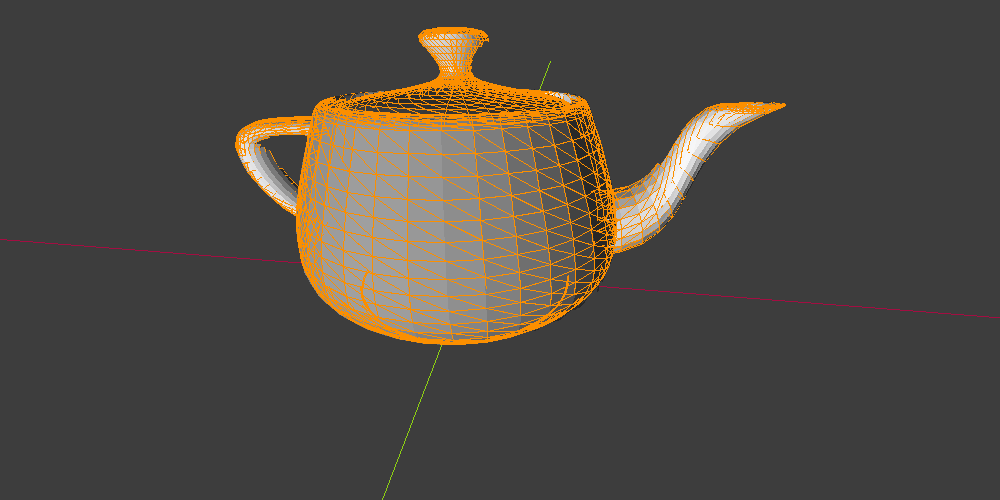
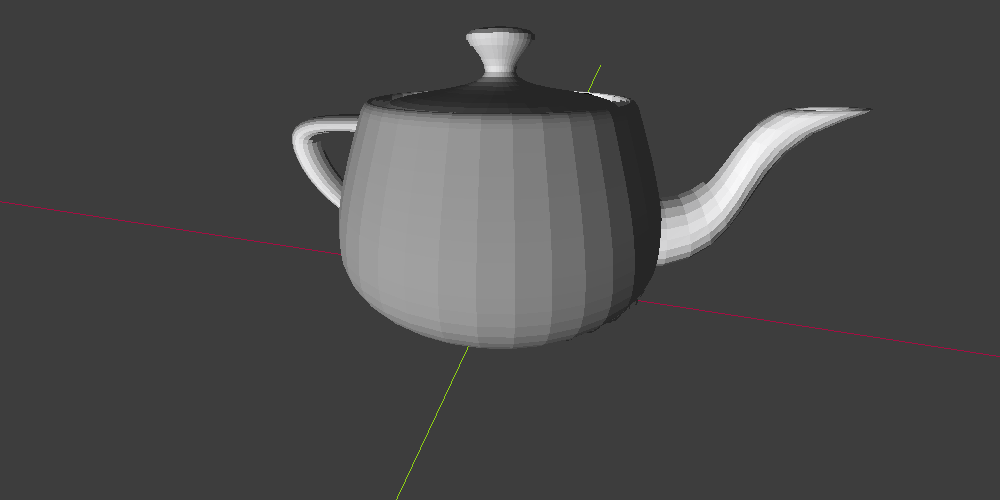
Fixed linear interpolation of depth

Changed region(s): [[0.217, 0.03, 0.868, 0.72]]

diff --git a/src/render/Scene.java b/src/render/Scene.java
@@ -218,9 +218,7 @@ public class Scene {
 
                 EuclideanVector clipped = new EuclideanVector(baryCentric.x()/aScreen.z(),
                         baryCentric.y()/bScreen.z(), baryCentric.z()/cScreen.z());
-                //clipped = clipped.getScaled(1/(clipped.x() + clipped.y() + clipped.z()));
-                double depth = aScreen.z() * clipped.x() + bScreen.z() +
-                        clipped.y() + cScreen.z() * clipped.z();
+                double depth = 1/clipped.dot(new EuclideanVector(1,1,1));
 
                 if(0 < depth && depth <= this.depthBuffer[x + width / 2][y + height / 2]) {
                     this.setPixel(x + this.width / 2, y + this.height / 2, color + Color.fromRGB((byte) 38, (byte) 38, (byte) 38));
@@ -263,7 +261,6 @@ public class Scene {
     public void render() throws Exception {
         this.resetBuffers();
         for(Mesh mesh : this.meshes) {
-            mesh.drawWireframe(this);
             mesh.render(this);
         }
     }
